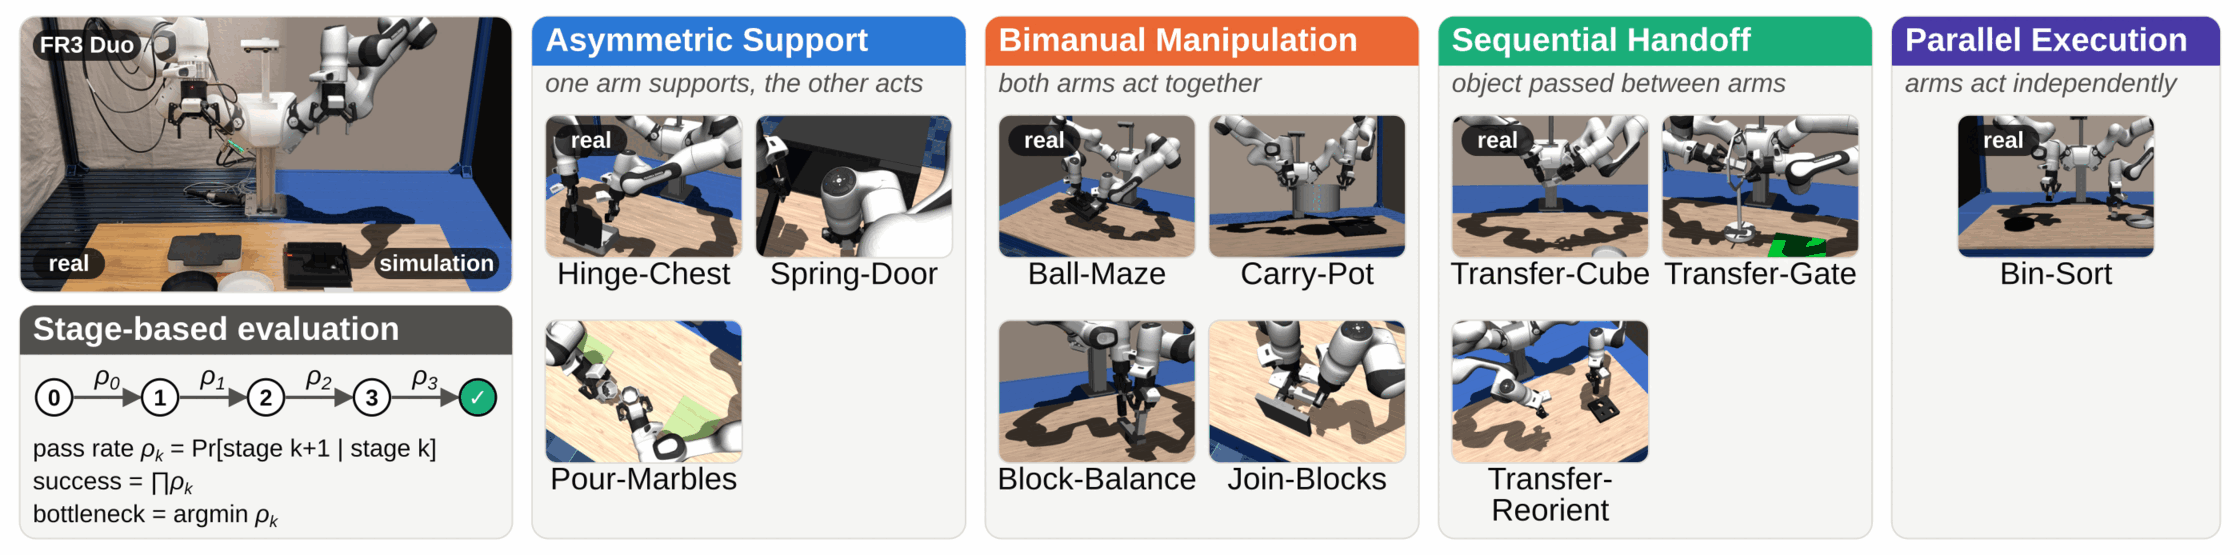
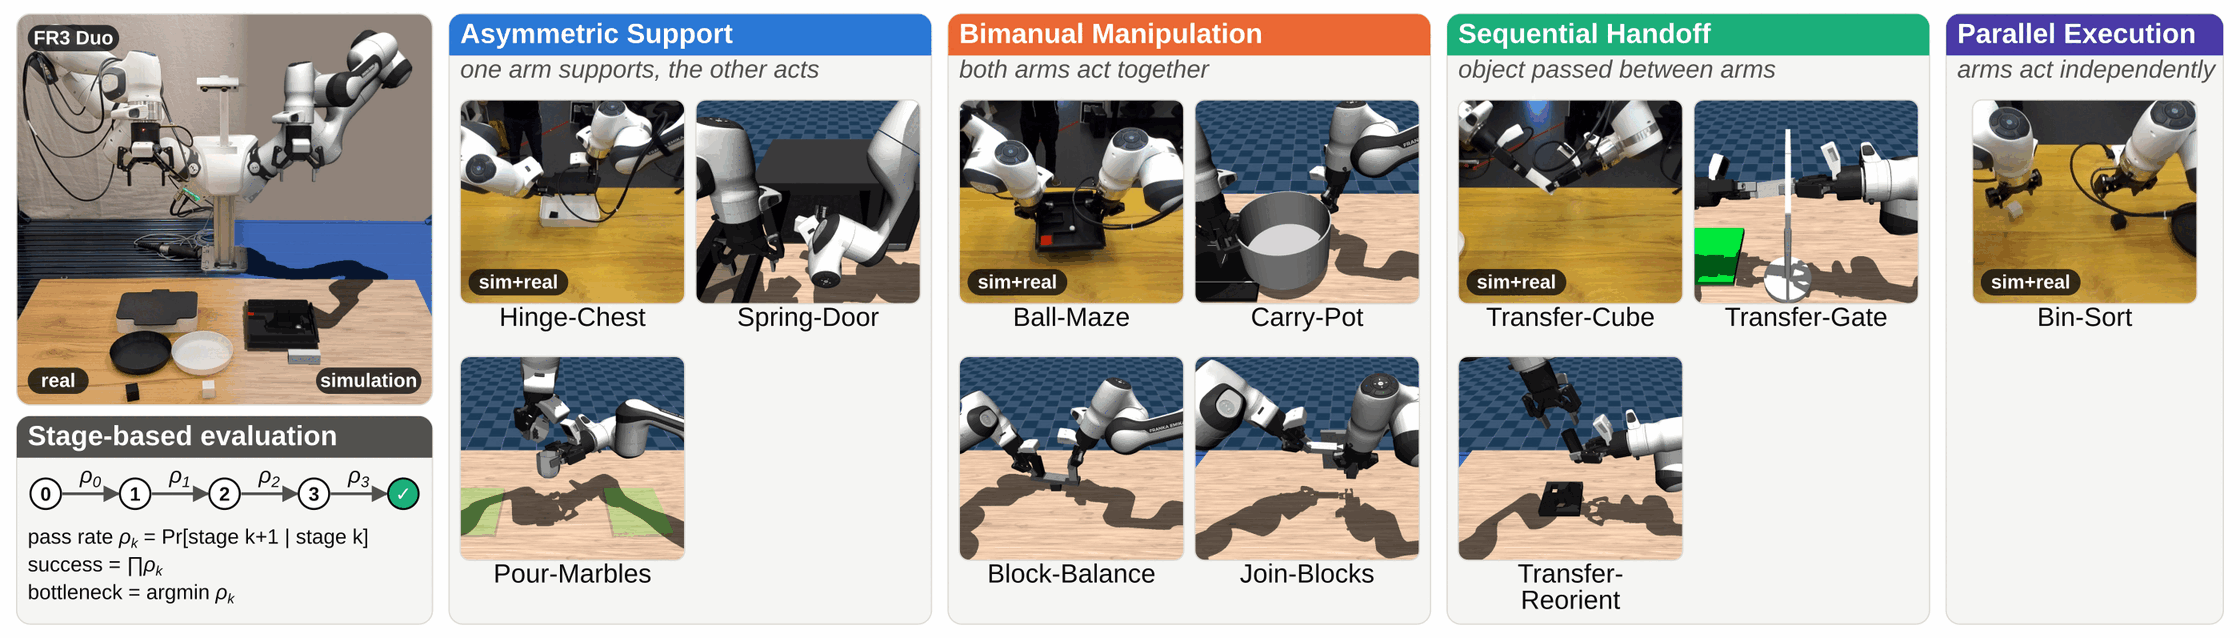
Figure 1: v9 (photo crop, larger thumbnails, sim+real labels)

diff --git a/index.html b/index.html
@@ -79,7 +79,7 @@
     <div class="container is-max-wide">
       <div class="hero-body">
         <div class="main-figure-frame fig-scroll">
-          <img class="main-figure" src="static/images/overview_main.png" alt="Overview of DuoBench with task categories, stage-based evaluation, and sim-to-real teleoperation pipeline.">
+          <img class="main-figure" src="static/images/overview_main.png" alt="Overview of DuoBench: the FR3 Duo setup in the real world and in simulation, stage-based evaluation, and the eleven tasks in four categories, four of them also reproduced on the real robot.">
         </div>
       </div>
     </div>
